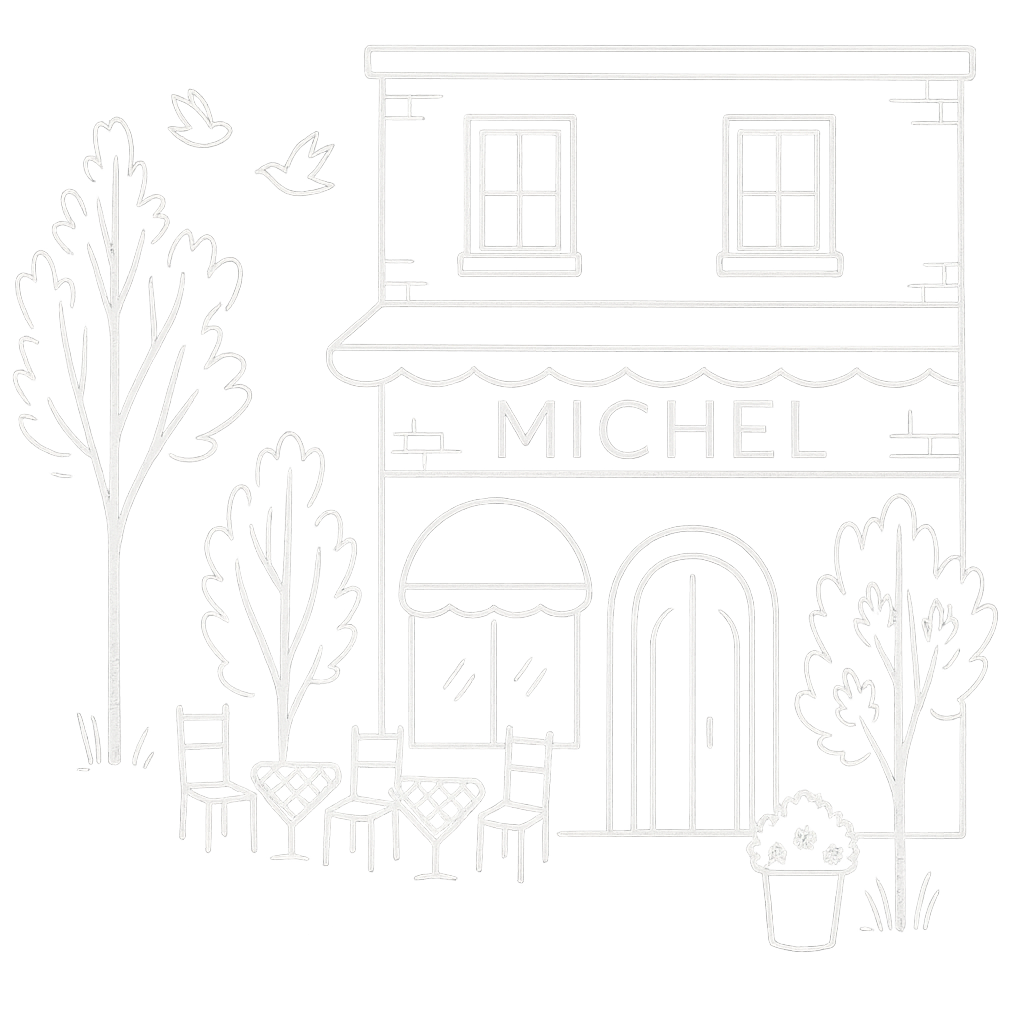
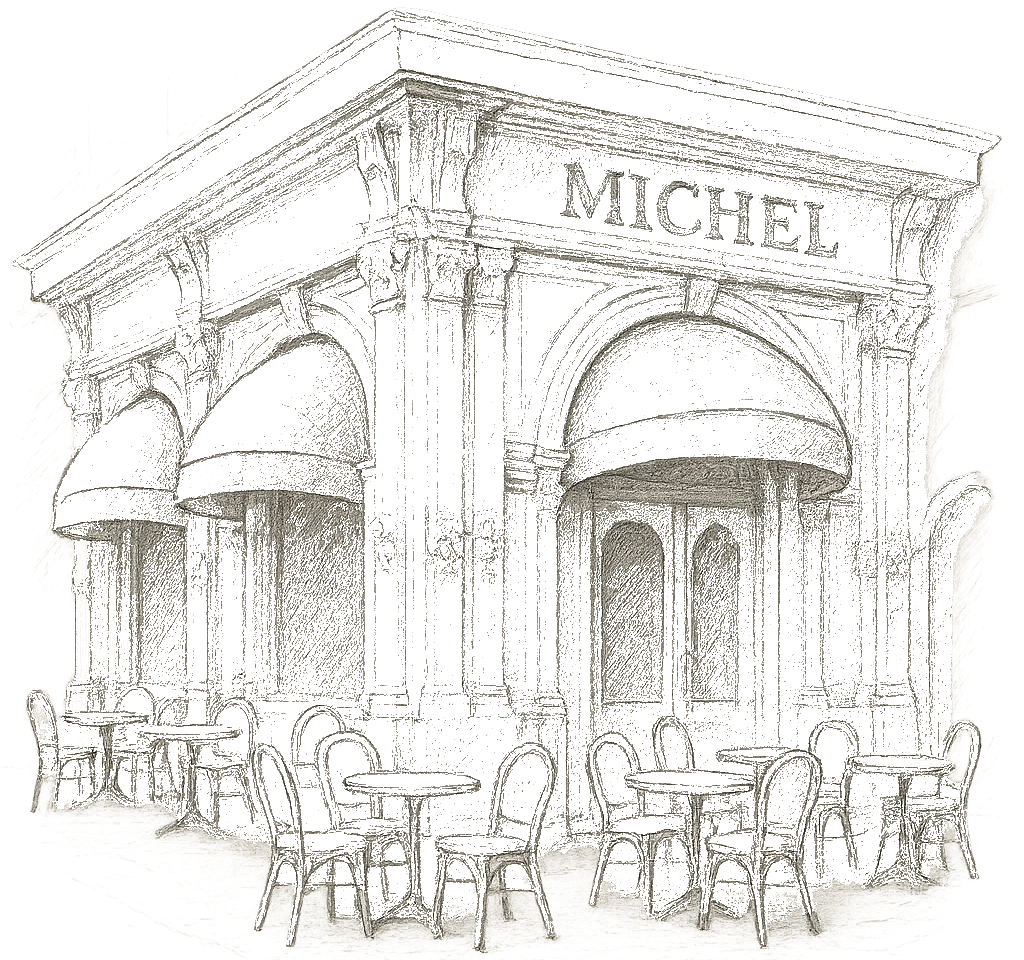
new art

Changed region(s): [[0.0, 0.0, 0.9688, 1.0], [0.2812, 0.0625, 0.3125, 0.0938]]

diff --git a/index.html b/index.html
@@ -45,7 +45,7 @@
         </div>
     </div>
     <div class="intro">
-        <img src="images/intro/cover.jpg" alt="Наша свадьба" class="intro-cover">
+        <img src="images/intro/cover.png" alt="Наша свадьба" class="intro-cover">
         <div class="intro-text-container">
             <h1 class="intro-subtitle">Свадебное торжество</h1>
             <h2 class="intro-names">Кирилла и Екатерины</h2>

diff --git a/styles/program.css b/styles/program.css
@@ -18,12 +18,12 @@
 
 .program-bg {
     position: absolute;
-    width: 100%;
-    left: 0;
-    bottom: -2rem;
+    width: 80%;
+    bottom: -4rem;
     height: auto;
-
-    opacity: 5%;
+    left: 50%;
+    transform: translateX(-50%);
+    opacity: 12%;
     pointer-events: none;
 }
 

diff --git a/main.js b/main.js
@@ -206,7 +206,7 @@ function setupProgramSection() {
                 observer.unobserve(programTitle);
             }
         });
-    }, { threshold: 0.4 });
+    }, { threshold: 0.2 });
     observer.observe(programTitle);
     observers.push(observer);
 }

diff --git a/styles/body.css b/styles/body.css
@@ -11,7 +11,7 @@ body {
     margin-right: auto;
     margin-left: auto;
     user-select:none;
-    gap: 3rem;
+    gap: 4rem;
 }
 
 body.enable-scroll {

diff --git a/styles/invite.css b/styles/invite.css
@@ -22,7 +22,7 @@
 }
 
 .invite-cover-bg{
-    opacity: 4%;
+    opacity: 20%;
     width: 100%;
     height: 100%;
     object-fit: cover;
